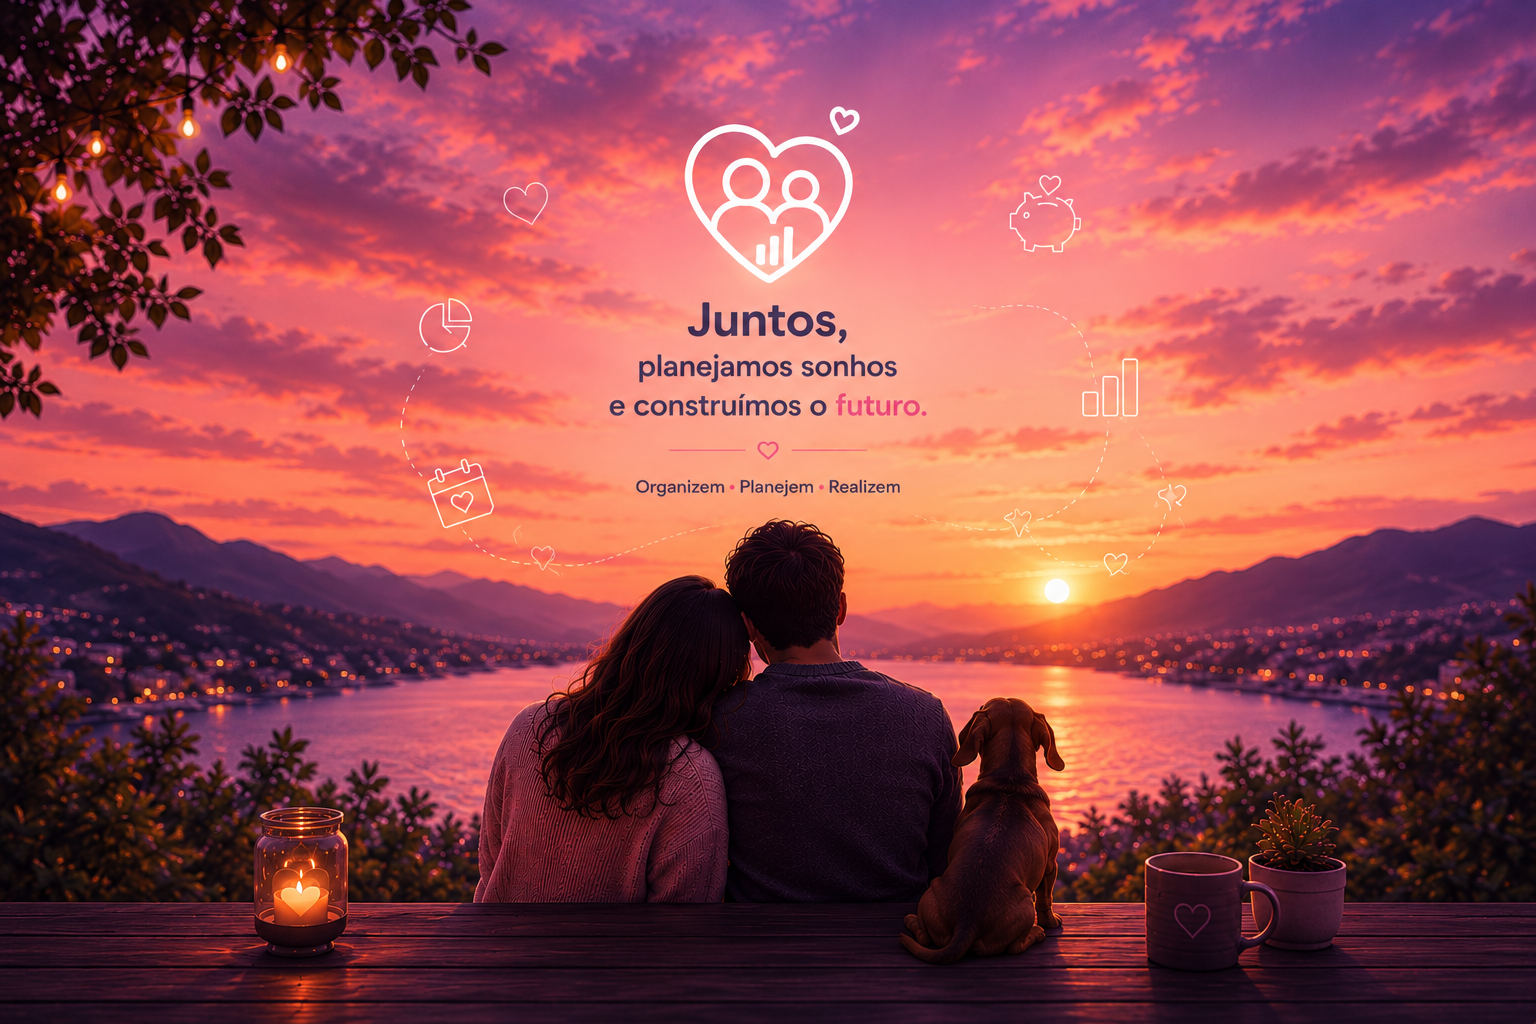
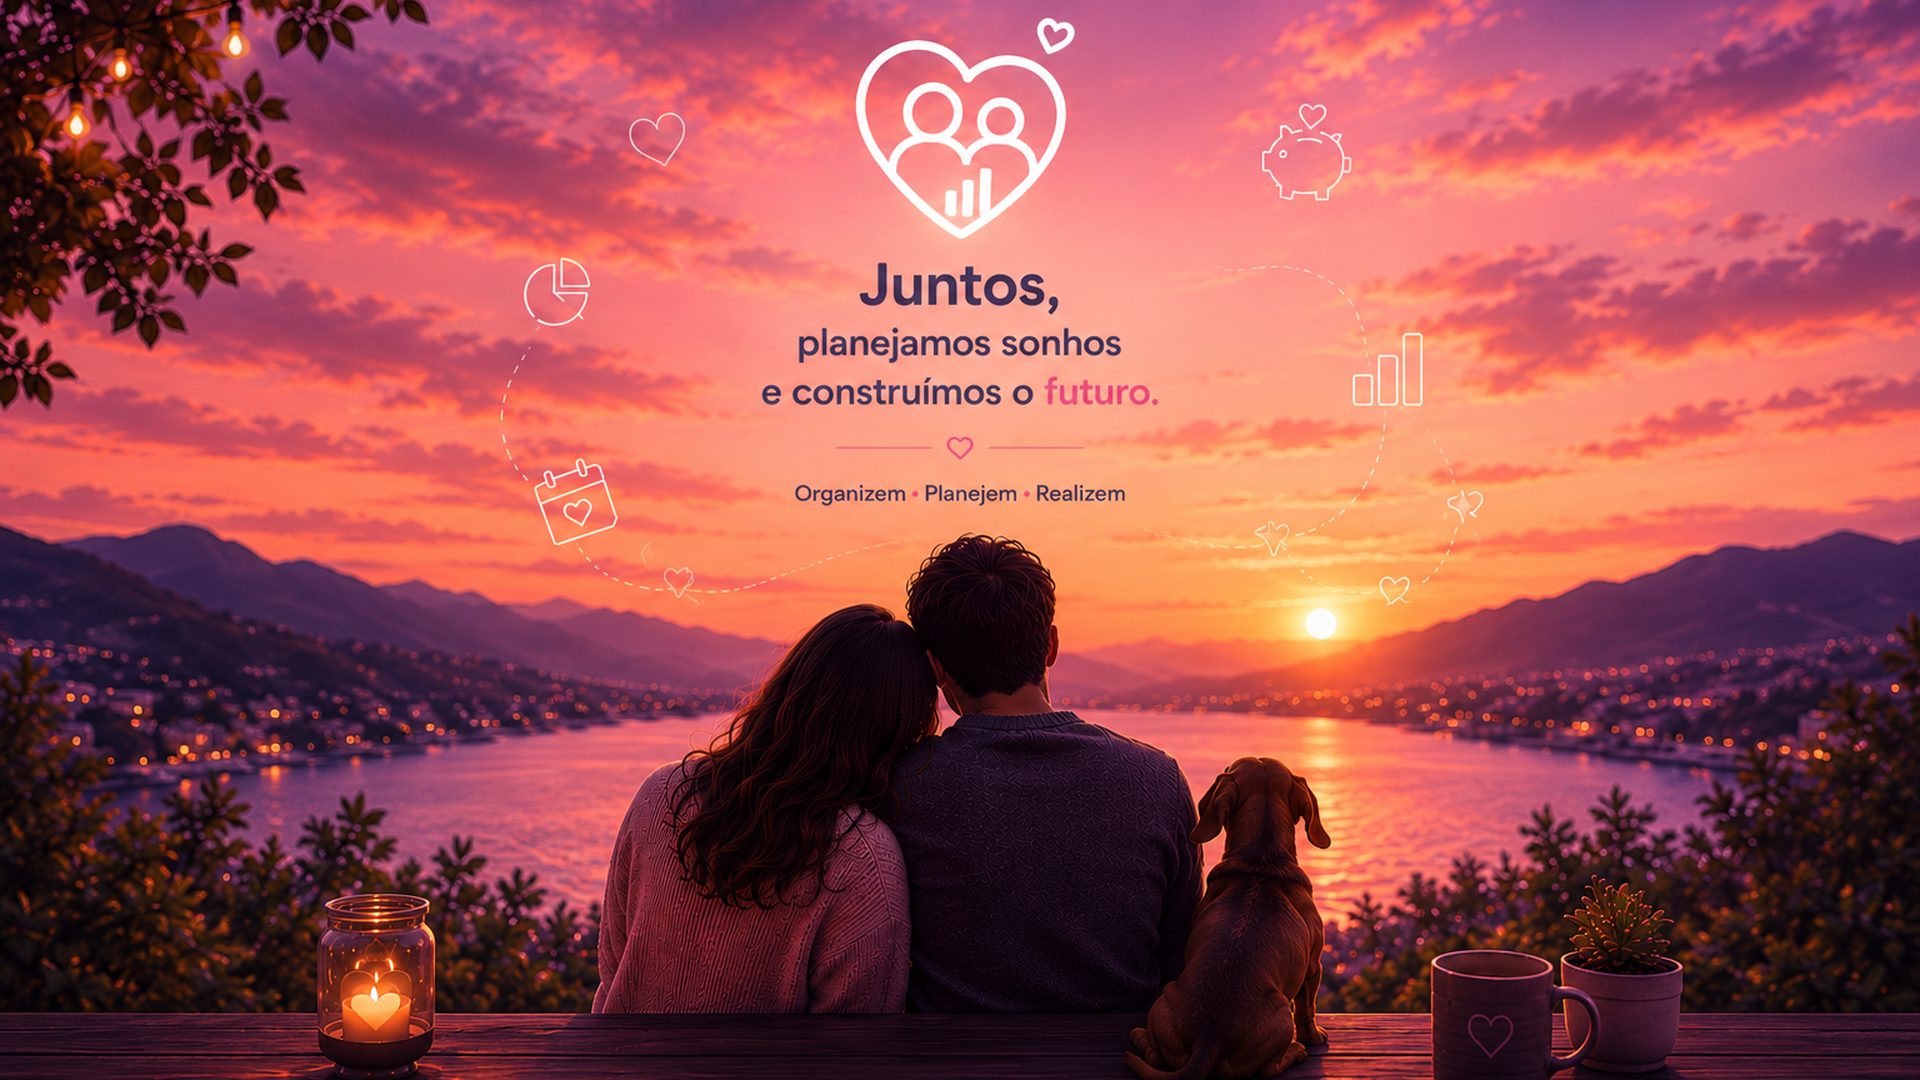
Add adaptive login wallpapers

diff --git a/finance-app/src/app/login/page.tsx b/finance-app/src/app/login/page.tsx
@@ -109,14 +109,16 @@ export default function LoginPage() {
 
   return (
     <div className="min-h-screen flex items-center justify-center px-4 py-6 md:p-6 relative overflow-hidden bg-[#08080F]">
-      <div
-        className="absolute inset-0 bg-contain bg-center bg-no-repeat"
-        style={{ backgroundImage: "url('/login/login-bg-mobile.png')" }}
-      />
-      <div
-        className="absolute inset-0 hidden md:block bg-contain bg-center bg-no-repeat"
-        style={{ backgroundImage: "url('/login/login-bg-desktop.png')" }}
-      />
+      <picture className="absolute inset-0 flex items-center justify-center" aria-hidden="true">
+        <source media="(min-width: 1920px)" srcSet="/login/login-bg-wide.png" />
+        <source media="(min-width: 768px)" srcSet="/login/login-bg-desktop.png" />
+        <source media="(max-aspect-ratio: 1/2)" srcSet="/login/login-bg-mobile-tall.png" />
+        <img
+          src="/login/login-bg-mobile.png"
+          alt=""
+          className="w-full h-full object-contain object-center select-none"
+        />
+      </picture>
       <div className="absolute inset-0 bg-black/18 md:bg-black/16" />
 
       <div className="w-full max-w-[620px] relative z-10 mt-[31vh] md:mt-36">
